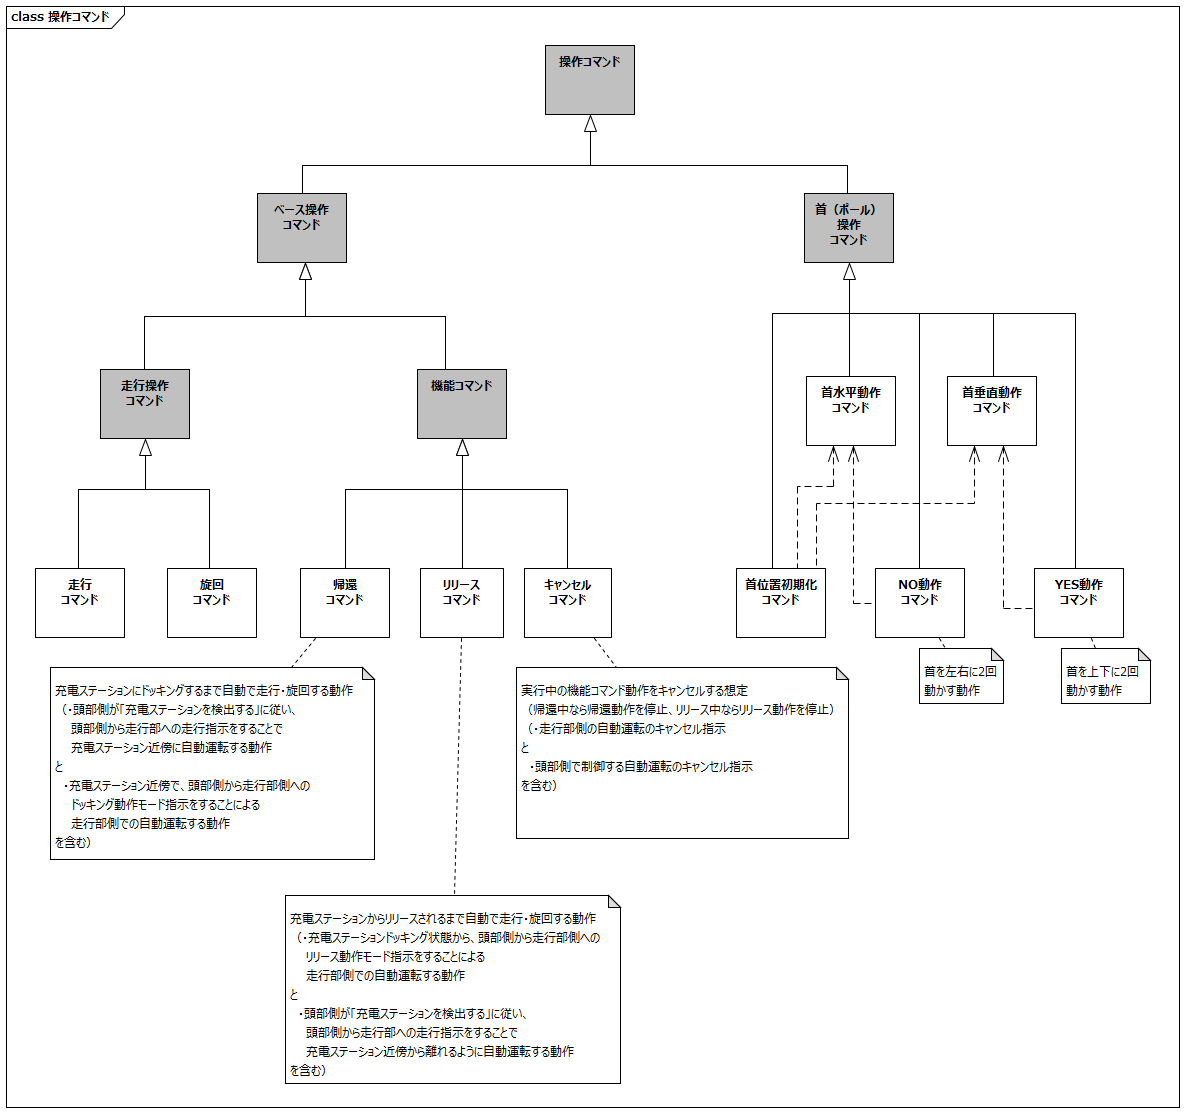
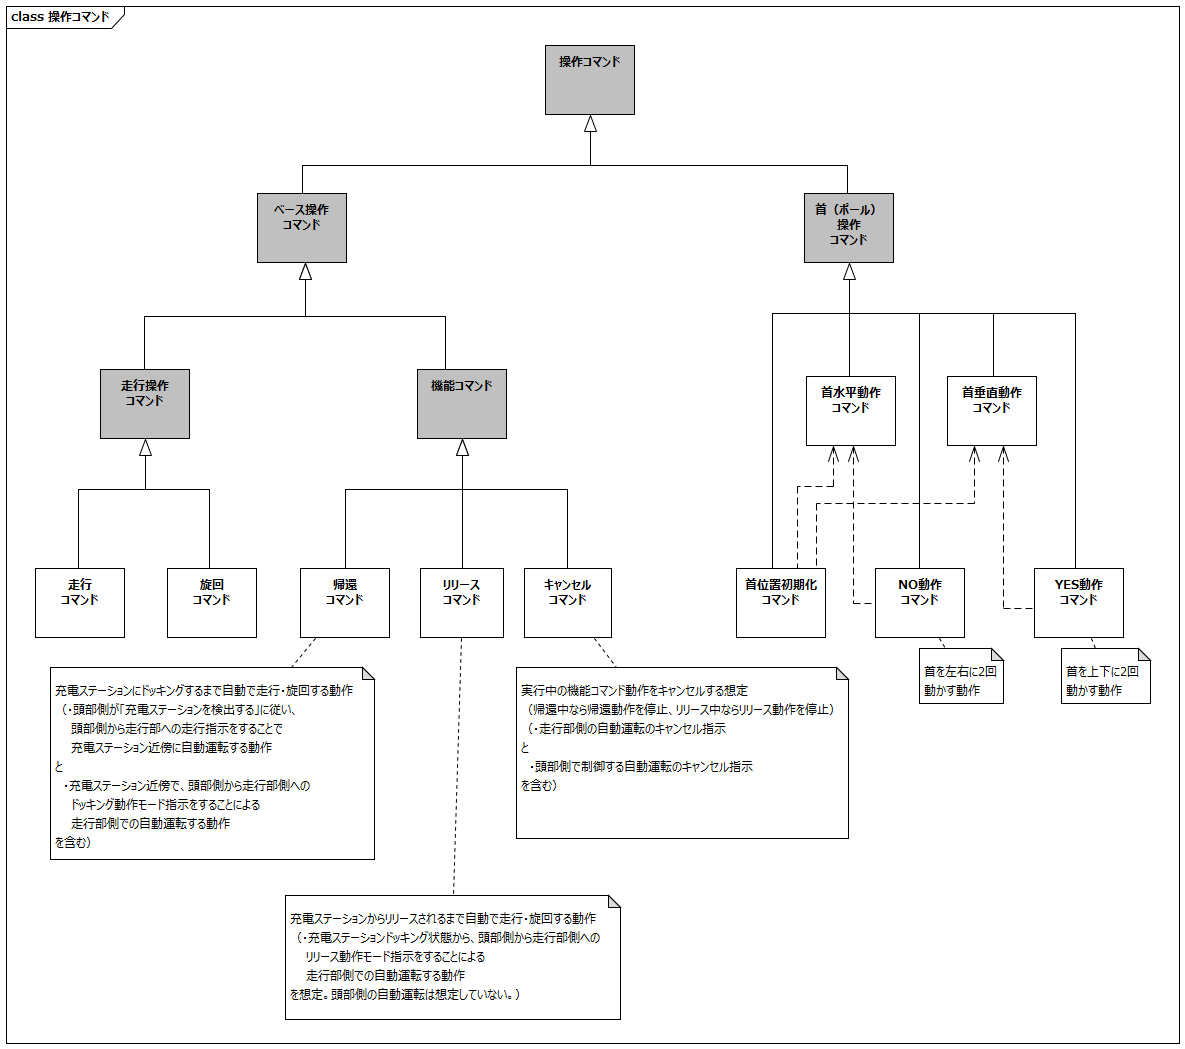
定例会指摘事項 「遠隔で操作する」のリリースコマンドに頭部側の自動運転の想定は無いように修正

diff --git a/requirements/requirement.md b/requirements/requirement.md
@@ -1179,7 +1179,7 @@ date: 2021年11月26日
 
 操作コマンドの概念モデルを以下に記載する。操作コマンドにはロボットのベースを制御するためのコマンドと首を制御するためのコマンドがある。
 
-ベース操作コマンドは走行指示するための走行操作コマンドと自動運転指示する機能コマンドをサブクラスとする。<br/>走行操作コマンドには走行コマンド、旋回コマンドがある。<br/>機能コマンドには帰還コマンド、リリースコマンド、キャンセルコマンドがある。<br/>帰還コマンドは充電ステーションにドッキングするまで自動で走行・旋回する動作を指示する（頭部側の走行指示による充電ステーション近傍までの自動運転と充電ステーション近傍での走行部へのドッキング動作モード指示による自動運転を想定）。<br/>リリースコマンドは充電ステーションからリリースされるまで自動で走行・旋回する動作を指示する（充電ステーションドッキング状態での走行部へのリリース動作モード指示による自動運転と頭部側の走行指示による充電ステーション近傍までの自動運転を想定）。<br/>キャンセルコマンドは帰還中、リリース中の自動運転動作を中止するコマンドである（走行部側の自動運転のキャンセル指示と頭部側での自動運転のキャンセル指示のどちらかを想定）。<br/>
+ベース操作コマンドは走行指示するための走行操作コマンドと自動運転指示する機能コマンドをサブクラスとする。<br/>走行操作コマンドには走行コマンド、旋回コマンドがある。<br/>機能コマンドには帰還コマンド、リリースコマンド、キャンセルコマンドがある。<br/>帰還コマンドは充電ステーションにドッキングするまで自動で走行・旋回する動作を指示する（頭部側の走行指示による充電ステーション近傍までの自動運転と充電ステーション近傍での走行部へのドッキング動作モード指示による自動運転を想定）。<br/>リリースコマンドは充電ステーションからリリースされるまで自動で走行・旋回する動作を指示する（充電ステーションドッキング状態での走行部へのリリース動作モード指示による自動運転を想定）。<br/>キャンセルコマンドは帰還中、リリース中の自動運転動作を中止するコマンドである（走行部側の自動運転のキャンセル指示と頭部側での自動運転のキャンセル指示のどちらかを想定）。<br/>
 
 首操作コマンドには首位置初期化コマンド、首水平動作コマンド、首垂直動作コマンド、YES動作コマンド、NO動作コマンドがある。<br/>首位置初期化コマンドは首水平動作、首垂直動作のコマンドに依存する。<br/>
 YES動作コマンドは首垂直動作に依存し、NO動作コマンドは首水平動作に依存する。
